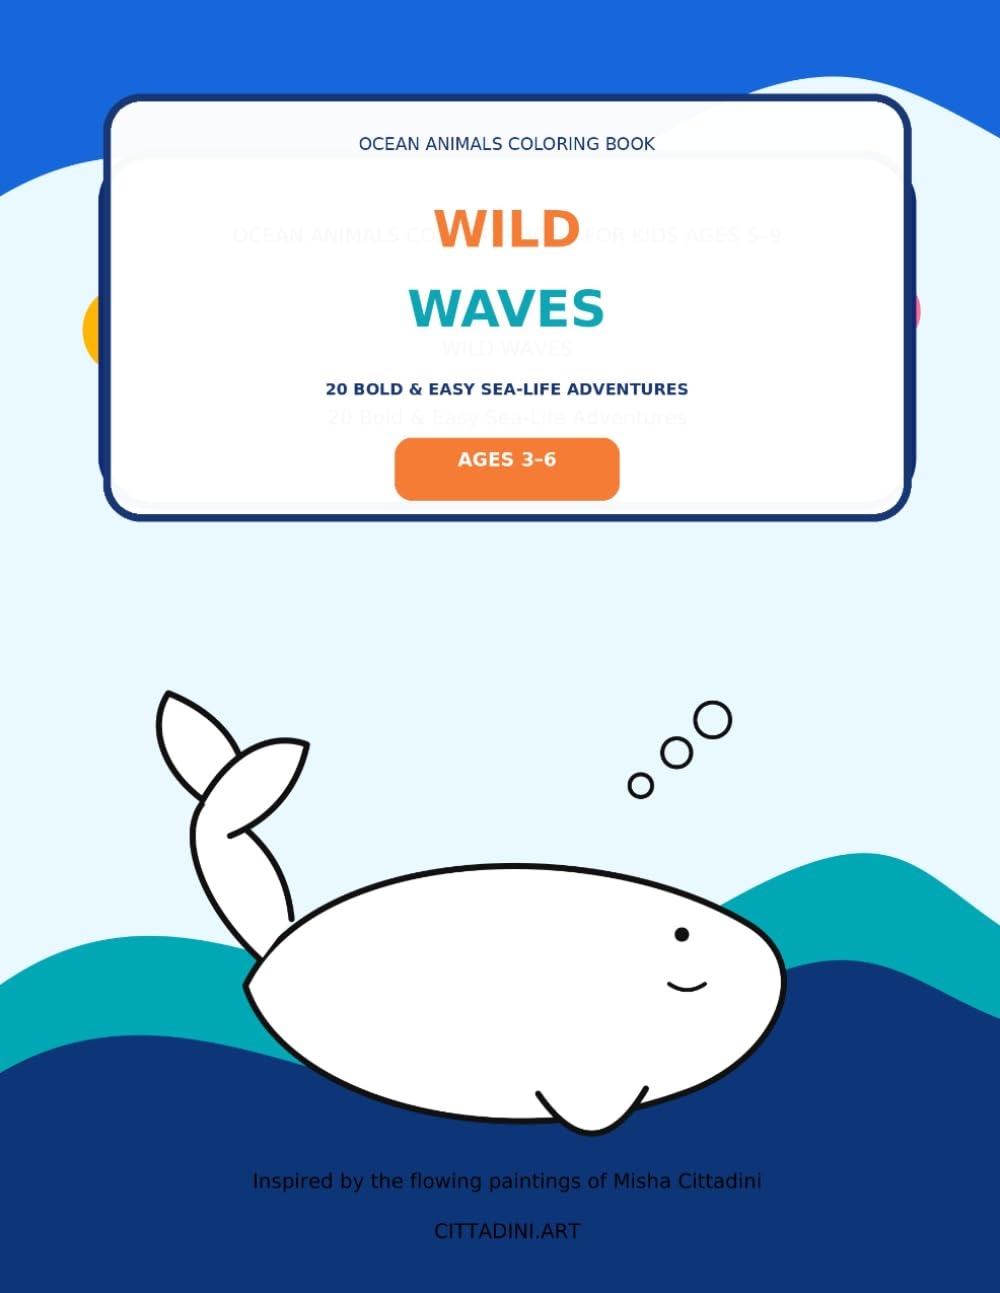
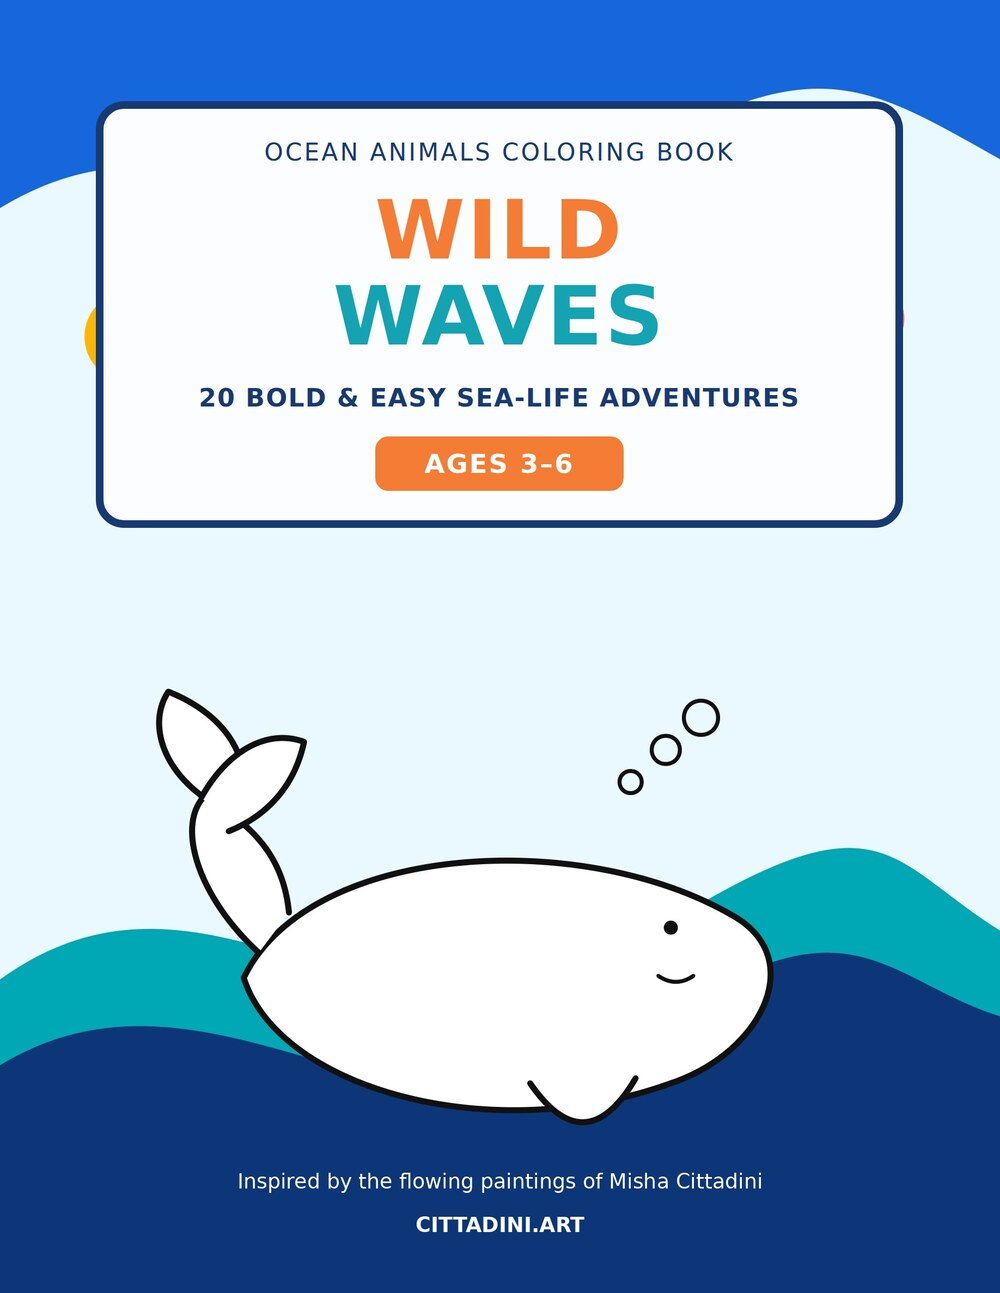
Books: corrected Bold & Easy cover and description

diff --git a/src/data/books.ts b/src/data/books.ts
@@ -27,7 +27,7 @@ export const books: Book[] = [
     title: 'Wild Waves',
     subtitle: 'Bold & Easy Ocean Animals',
     ages: '3–6', pages: 24,
-    description: 'Friendly sea animals with strong outlines and big spaces to color, printed single-sided for little hands.',
+    description: 'Twenty friendly sea animals, from whales and turtles to crabs and starfish, with strong outlines and big spaces to color.',
     cover: boldEasy,
     amazon: 'https://www.amazon.com/dp/B0HGWGP6S7',
   },

diff --git a/CHANGELOG.md b/CHANGELOG.md
@@ -12,7 +12,7 @@ script refuses to put anything live unless it is a tagged, pushed version. See d
 
 ## [Unreleased]
 
-- New Books page with the three *Wild Waves* coloring books and links to Amazon; "Books" added to the menu.
+- New Books page with the three *Wild Waves* coloring books and links to Amazon (bold & easy edition shown with its corrected cover); "Books" added to the menu.
 
 ## [v0.6.3] - 2026-11-15
 - Sirocco marked sold (studio pickup sale, The Big Open, Nov 15); its buy links switched off.
